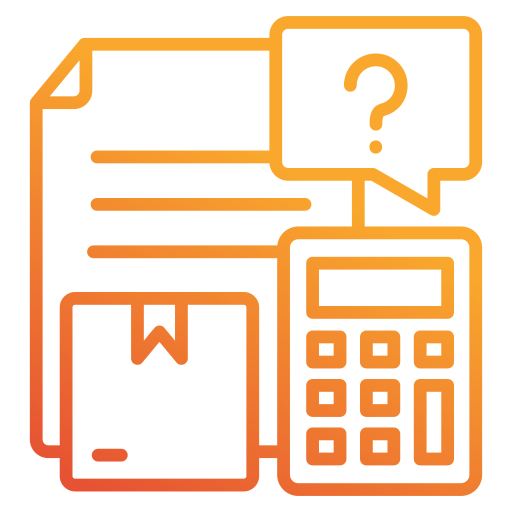
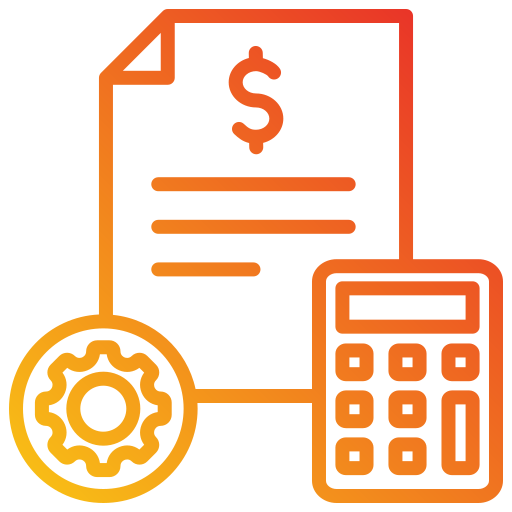
Add url params

diff --git a/src/app/components/recruitment/RecruitmentSection.tsx b/src/app/components/recruitment/RecruitmentSection.tsx
@@ -1,21 +1,39 @@
 'use client'
 
-import { useState } from "react"
 import RecruitmentCarousel from "./RecruitmentCarousel"
+import { useRouter, usePathname, useSearchParams } from "next/navigation"
 
 type RecruitmentTab = 'exco' | 'subcomm'
 
 interface RecruitmentSectionProps {
     subcommRoles: React.ReactNode,
-    excoRoles: React.ReactNode
+    excoRoles: React.ReactNode,
+    initialTab?: RecruitmentTab
 }
 
-const RecruitmentSection = ({ subcommRoles, excoRoles } : RecruitmentSectionProps) => {
-    const [activeTab, setActiveTab] = useState<RecruitmentTab>('exco')
+const getTabFromSearchParams = (tabParam: string | null, initialTab: RecruitmentTab) : RecruitmentTab => {
+    if (tabParam === 'exco' || tabParam === 'subcomm') {
+        return tabParam;
+    }
+    return initialTab;
+}
+
+const RecruitmentSection = ({ subcommRoles, excoRoles, initialTab = 'exco' } : RecruitmentSectionProps) => {
+    const router = useRouter()
+    const pathname = usePathname()
+    const searchParams = useSearchParams()
+    
+    const activeTab = getTabFromSearchParams(searchParams.get("tab"), initialTab)
+
+    const handleTabChange = (tabItem: RecruitmentTab) => {
+        const newSearchParams = new URLSearchParams(searchParams.toString())
+        newSearchParams.set("tab", tabItem)
+        router.replace(`${pathname}?${newSearchParams.toString()}`, { scroll: false })
+    }
 
     return (
         <>
-            <RecruitmentCarousel onTabChange={setActiveTab}/>
+            <RecruitmentCarousel onTabChange={handleTabChange}/>
             { activeTab == 'exco' ? excoRoles : subcommRoles }
         </>
     )

diff --git a/src/app/components/recruitment/RecruitmentCarousel.tsx b/src/app/components/recruitment/RecruitmentCarousel.tsx
@@ -12,7 +12,7 @@ import { Text } from "../common/textComponents";
 import ColouredBox from "../common/ColouredBox";
 import CustomButton from "../common/CustomButton";
 import { useEffect } from "react";
-import { useState } from "react";
+import { useState, useRef } from "react";
 
 const RecruitmentCarouselCard: React.FC<{title: string, content: string}> = ({title, content}) => {
     return (
@@ -31,21 +31,24 @@ const RecruitmentCarouselCard: React.FC<{title: string, content: string}> = ({ti
 type RecruitmentTab = 'exco' | 'subcomm'
 
 interface RecruitmentCarouselProps {
-    onTabChange: (tabItem : RecruitmentTab) => void
+    onTabChange: (tabItem : RecruitmentTab) => void,
 }
+
+const slideOrder: RecruitmentTab[] = ['exco', 'subcomm'];
   
 const RecruitmentCarousel = ({ onTabChange } : RecruitmentCarouselProps) => {
     const buttonClassName = "relative top-auto translate-y-0";
     const [api, setApi] = useState<CarouselApi>()
 
-    const slideOrder: RecruitmentTab[] = ['exco', 'subcomm'];
+    const onTabChangeRef = useRef(onTabChange)
 
     useEffect(() => {
         if (!api) return
+        
 
         const handleSelect = () => {
             const index = api.selectedScrollSnap()
-            onTabChange(slideOrder[index])
+            onTabChangeRef.current(slideOrder[index])
         }
 
         handleSelect()

diff --git a/src/app/(public)/recruitment/page.tsx b/src/app/(public)/recruitment/page.tsx
@@ -34,13 +34,23 @@ export const metadata: Metadata = {
   },
 }
 
-const RecruitmentPage = () => {
-    return (
-        <PageLayout>
-            <ContentBox title={S.bePartOfMcnus} content={S.bePartOfMcnusDescription}/>
-            <RecruitmentSection subcommRoles={<Roles/>} excoRoles={<ExcoRoles/>}/>
-        </PageLayout>
-    );
+type RecruitmentPageProps = {
+  searchParams: Promise<{
+    tab?: string | string[];
+  }>;
+};
+
+const RecruitmentPage = async ({ searchParams }: RecruitmentPageProps) => {
+  const { tab } = await searchParams
+  const tabParam = Array.isArray(tab) ? tab[0] : tab;
+  const initialTab: 'exco' | 'subcomm' = tabParam === 'subcomm' ? 'subcomm' : 'exco';
+  
+  return (
+    <PageLayout>
+      <ContentBox title={S.bePartOfMcnus} content={S.bePartOfMcnusDescription} />
+      <RecruitmentSection subcommRoles={<Roles />} excoRoles={<ExcoRoles />} initialTab={initialTab} />
+    </PageLayout>
+  );
 };
 
 export default RecruitmentPage;
